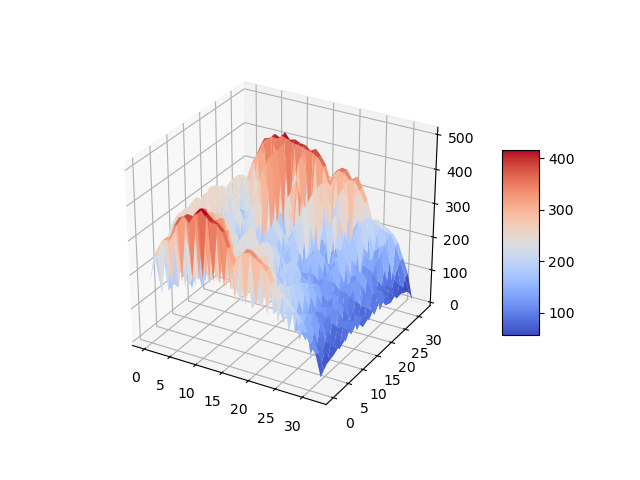
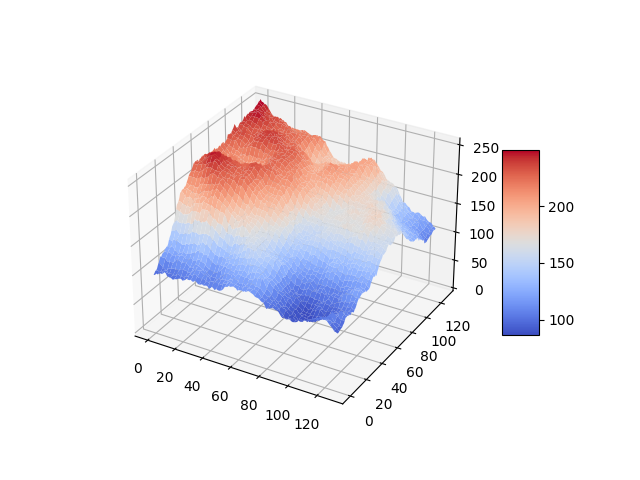
Fixed takeoff space generation.

diff --git a/code/toy_ai_takeoff_model/takeoff.py b/code/toy_ai_takeoff_model/takeoff.py
@@ -1,21 +1,32 @@
 #!/usr/bin/env python3
 
-# Can't be used for terrain generation because of recursiveness,
-# which makes some diamond values lack seed values
-
 import random
 import numpy as np
 
-def fill_space(space, dim, size, minval, maxval):
+extrfact=0.5
+
+dim=3
+size=9
+minval=0
+maxval=256
+lognormm=2
+lognormvar=5
+
+rounds=4096
+growth=1.001
+
+factor=1
+
+def fill_space(size, minval, maxval):
 	"""Fill a dim-dimensional discrete space of ℕ^{size} with
 	some random hyperplane with values ranging from minval to
 	maxval. Returns a ℕ^{size} array. Changes space in-place."""
 
-	offset=np.array([0]*dim)
-	n_diam_square_rec(space, dim, offset, size, minval, maxval)
+	offsets=[np.array([0]*dim)]
+	n_diam_square_rec(offsets, size, minval, maxval)
 	return space
 
-def get_cornerspos(dim):
+def get_cornerspos():
 	cornerspos=[('{0:0'+str(dim)+'b}').format(i) for i in range(2**dim)]
 	cornerspos=[list(i) for i in cornerspos]
 	cornerspos=list(map((lambda x: list(map(int, x))), cornerspos))
@@ -23,51 +34,57 @@ def get_cornerspos(dim):
 
 	return cornerspos
 
-def n_diam_square_rec (space, dim, offset, size, minval, maxval):
+def n_diam_square_rec (offsets, size, lminval, lmaxval):
 	if size==1:
 		return
 
-	center=np.array([size//2]*dim)
-	center=offset+center
-
-	if size==len(space):
-		b=1
-	else:
-		b=0
-
-	cornerspos=get_cornerspos(dim)
-	corners=np.array([(i*(size-b))+offset for i in cornerspos])
-
-	cornersum=0
-	for corner in corners:
-		cornersum=cornersum+space[tuple(corner)]
-
-	val=(cornersum/len(corners))+random.randint(minval, maxval)
-	space[tuple(center)]=val
-
 	nsize=size//2
 
-	# Recursive square step here (dim times)
-	explored=np.array([False]*dim)
+	for o in offsets:
+		center=np.array([nsize]*dim)
+		center=o+center
 
-	for i in range(0,dim):
-		explored[i]=True
-		ncenter1=np.array(center)
-		ncenter2=np.array(center)
-		ncenter1[i]=ncenter1[i]+nsize
-		ncenter2[i]=ncenter2[i]-nsize
-		square_rec(space, ncenter1, dim-1, nsize, explored, round(minval*extrfact), round(maxval*extrfact))
-		square_rec(space, ncenter2, dim-1, nsize, explored, round(minval*extrfact), round(maxval*extrfact))
-		explored[i]=False
+		if size==len(space):
+			b=1
+		else:
+			b=0
+
+		cornerspos=get_cornerspos()
+		corners=np.array([(i*(size-b))+o for i in cornerspos])
+
+		cornersum=0
+		for corner in corners:
+			cornersum=cornersum+space[tuple(corner)]
+
+		val=(cornersum/len(corners))+(random.randint(lminval, lmaxval)-((lmaxval-lminval)//2))
+
+		space[tuple(center)]=val
+
+	for o in offsets:
+		center=np.array([nsize]*dim)
+		center=o+center
+		# Recursive square step here (dim times)
+		explored=np.array([False]*dim)
+
+		for i in range(0, dim):
+			explored[i]=True
+			ncenter1=np.array(center)
+			ncenter2=np.array(center)
+			ncenter1[i]=ncenter1[i]+nsize
+			ncenter2[i]=ncenter2[i]-nsize
+			square_rec(dim, ncenter1, nsize, explored, round(lminval*extrfact), round(lmaxval*extrfact))
+			square_rec(dim, ncenter2, nsize, explored, round(lminval*extrfact), round(lmaxval*extrfact))
+			explored[i]=False
+
+	noffsets=[]
 
 	# Recursive square step
-	for pos in get_cornerspos(dim):
-		noffset=(pos*nsize)+offset
-		n_diam_square_rec(space, dim, noffset, nsize, round(minval*extrfact), round(maxval*extrfact))
+	for pos in get_cornerspos():
+		noffsets=noffsets+[(pos*nsize)+offset for offset in offsets]
 
-def square_rec(space, center, dim, size, explored, minval, maxval):
-	# Field already assigned or dimension is 0
-	# Only a heuristic, use {True, False}^dim instead?
+	n_diam_square_rec(noffsets, nsize, round(lminval*extrfact), round(lmaxval*extrfact))
+
+def square_rec(ldim, center, size, explored, lminval, lmaxval):
 	if all(explored) or space[tuple(center)]!=0:
 		return
 
@@ -76,7 +93,7 @@ def square_rec(space, center, dim, size, explored, minval, maxval):
 	squaresum=0
 	squarepos=np.array(center)
 
-	for i in range(0, dim):
+	for i in range(0, ldim):
 		tmp=squarepos[i]
 		ndp1=squarepos[i]+size
 		ndp2=squarepos[i]-size
@@ -90,11 +107,12 @@ def square_rec(space, center, dim, size, explored, minval, maxval):
 			counter+=1
 		squarepos[i]=tmp
 
-	val=(squaresum/counter)+random.randint(minval, maxval)
+	val=(squaresum/counter)+(random.randint(lminval, lmaxval)-((lmaxval-lminval)//2))
+
 	space[tuple(center)]=val
 
 	# Recurse
-	for i in range(0, dim):
+	for i in range(0, ldim):
 		if not explored[i]:
 			explored[i]=True
 			ncenter1=np.array(center)
@@ -103,10 +121,10 @@ def square_rec(space, center, dim, size, explored, minval, maxval):
 			ncv2=ncenter2[i]-size
 			if ncv1>=0:
 				ncenter1[i]=ncv1
-				square_rec(space, ncenter1, dim, size, explored, round(minval*extrfact), round(maxval*extrfact))
+				square_rec(ldim-1, ncenter1, size, explored, round(lminval*extrfact), round(lmaxval*extrfact))
 			if ncv2>=0:
 				ncenter2[i]=ncv2
-				square_rec(space, ncenter2, dim, size, explored, round(minval*extrfact), round(maxval*extrfact))
+				square_rec(ldim-1, ncenter2, size, explored, round(lminval*extrfact), round(lmaxval*extrfact))
 			explored[i]=False
 
 def climb(space, pos, size, dim):
@@ -150,33 +168,20 @@ def search_around(space, pos, size, dim, intelligence):
 	pos=np.array([list(mp[i])[0]+subpos[i].start for i in range(0, dim)])
 	return pos
 
-extrfact=0.5
-
-dim=5
-size=33
-minval=0
-maxval=255
-lognormm=2
-lognormvar=5
-
 space=np.zeros([size]*dim)
 
 # Initialize corner values
 
-cornerspos=get_cornerspos(dim)
-corners=np.array([(i*(size-1)) for i in get_cornerspos(dim)])
+cornerspos=get_cornerspos()
+corners=np.array([(i*(size-1)) for i in get_cornerspos()])
 
 for c in corners:
+	val=random.randint(minval, maxval)
 	space[tuple(c)]=random.randint(minval, maxval)
 
-fill_space(space, dim, size, minval, maxval)
+fill_space(size, minval, maxval)
 
 pos=[random.randint(0, size-1) for i in range(0, dim)]
-
-rounds=4096
-growth=1.001
-
-factor=1
 
 for i in range(0,rounds):
 	factor*=growth

diff --git a/code/toy_ai_takeoff_model/twodim.py b/code/toy_ai_takeoff_model/twodim.py
@@ -17,7 +17,7 @@ Y=np.arange(0,size,1)
 X,Y=np.meshgrid(X,Y)
 
 surf=ax.plot_surface(X,Y,space, cmap=cm.coolwarm)
-ax.set_zlim(0,2*maxval)
+ax.set_zlim(minval, maxval)
 fig.colorbar(surf, shrink=0.5, aspect=5)
 
 plt.savefig("twodim.png")

diff --git a/reports.md b/reports.md
@@ -22,15 +22,16 @@ Countings Smarts
 
 ### What I Did
 
-When I was around 9 years old, I decided to create a counter in my head
-that would increment when I saw a car of the brand [Smart]()<!--TODO:
-wiki link-->. I did this for around half a year, eventually reaching
-over 6000 (I don't remember the exact number anymore, what a shame).
-During this time, I created some rules:
+When I was around 9 years old, I decided to create a counter
+in my head that would increment when I saw a car of the brand
+[Smart](https://en.wikipedia.org/wiki/Smart_(marque)). I did this for
+around half a year, eventually reaching over 6000 (I don't remember
+the exact number anymore, what a shame).  During this time, I created
+some rules:
 
 * I was not actively seeking out Smarts, but was looking out for them
 * Because I'd learned the positions for Smarts in the village we were living in, I created a rule that a period of one hour was necessary for double-counting the same car
-* Smarts of all varieties were valid<!--TODO: links-->
+* Smarts of all varieties were valid
 
 I remember location mattering a lot, a 2-week holiday in the US increasing
 the counter by only 1 or two, and a weekend in a big european city
@@ -48,8 +49,8 @@ visual classifier for Smarts is still much better than for other cars. I
 also still get a little bolt of attention when I see a Smart.
 
 Also, the sportscar variant of Smarts looks kind of neat, besides the
-Tesla Cybertruck my preferred aesthetic for cars.<!--TODO: links for
-these-->
+[Tesla Cybertruck](https://en.wikipedia.org/wiki/Tesla_Cybertruck)
+my preferred aesthetic for cars.<!--TODO: links for these-->
 
 If you're a bored 9 year old, this is probably not too bad.
 

diff --git a/exercise_log.md b/exercise_log.md
@@ -1,7 +1,7 @@
 [home](./index.md)
 ------------------
 
-*author: niplav, created: 2020-06-15, modified: 2020-09-28, language: english, status: notes, importance: 1, confidence: log*
+*author: niplav, created: 2020-06-15, modified: 2020-10-13, language: english, status: notes, importance: 1, confidence: log*
 
 > __I recently got the feeling that tracking my exercise might be vaguely
 > useful. This is my attempt.__
@@ -13,7 +13,7 @@ Template
 --------
 
 * 50 push-ups
-* 50 sit-ups
+* 100 sit-ups
 * 50 biceps curls
 * 10 dumbbell scaptions
 * 50 dumbbell shoulder presses
@@ -372,3 +372,17 @@ Log
 * 50 double leg lifts
 * 100 froggers
 * 2 minutes plank
+
+#### 2020-10-13
+
+* 50 push-ups
+* 100 sit-ups
+* 50 biceps curls
+* 10 dumbbell scaptions
+* 50 dumbbell shoulder presses
+* 50 dumbbell upright rows
+* 50 dumbbell bench presses
+* 20 burpees
+* 50 double leg lifts
+* 100 froggers
+* 3 minutes plank
